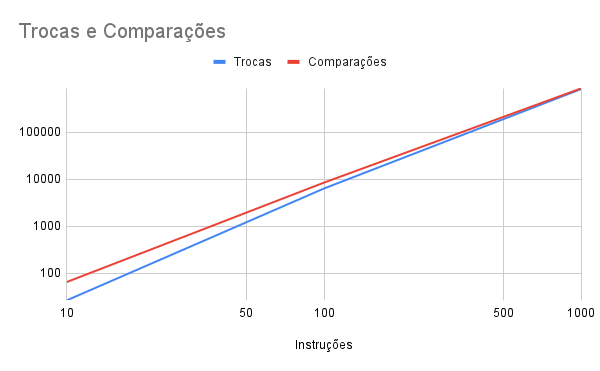
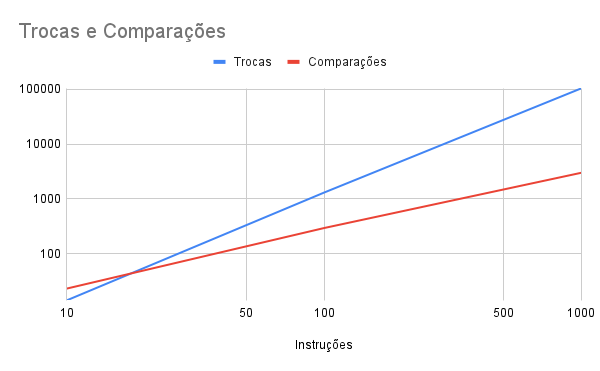
ShellSort atualização

diff --git a/codigo/Laboratório6/ShellSort.cs b/codigo/Laboratório6/ShellSort.cs
@@ -6,14 +6,10 @@ namespace ShellSort
     {
         static void Main(string[] args)
         {
-            int[] vet = new int[1000];
+            int[] vet = new int[10];
             int comparacoes = 0, trocas = 0;
 
             preencheVetor(vet);
-
-            Console.WriteLine("Valores do vetor:");
-            imprimeVetor(vet);
-
 
             shellSort(vet, ref comparacoes, ref trocas);
 
@@ -27,30 +23,21 @@ namespace ShellSort
 
         static void shellSort(int[] vet, ref int comparacoes, ref int trocas){
 
-            int h = 8, i, j, aux;
+            int h = 4, i, j, referencia;
             while(h > 0){
-                h = h / 2;
-                for(i = 0; (i+h)<=vet.Length; i++){
-                    for(j = i; (j-h)>=0; j-=h){
-                        comparacoes++;
-                        if(vet[j] <= vet[j-h]){
-                            aux = vet[j];
-                            vet[j] = vet[j-h];
-                            vet[j-h] = aux;
-
-                            trocas++;
-                        }
+                for(i = 0; (i+h)<=(vet.Length -1); i++){
+                    referencia = vet[i+h];
+                    comparacoes++;
+                    for(j=i+h; (j-h>=0) && vet[j-h] >= referencia; j-=h){
+                        vet[j] = vet[j-h];
+                        trocas++;
                     }
+                    vet[j] = referencia;
+                     
                 }
-
-                if(h == 1){
-                    h--;
-                }
+                h = h / 2;
                 
             }
-            
-            
-
         }
 
         static void preencheVetor(int[] vet){
